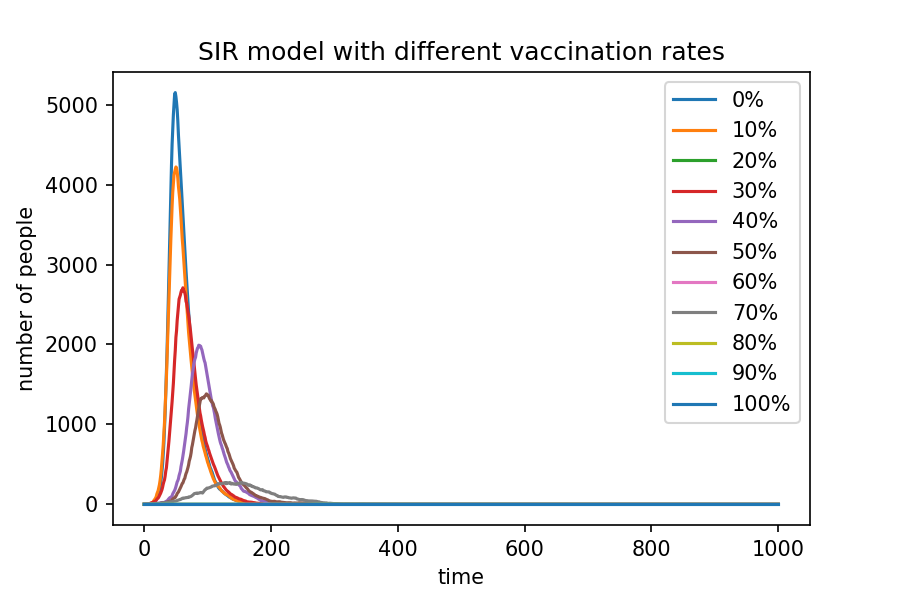
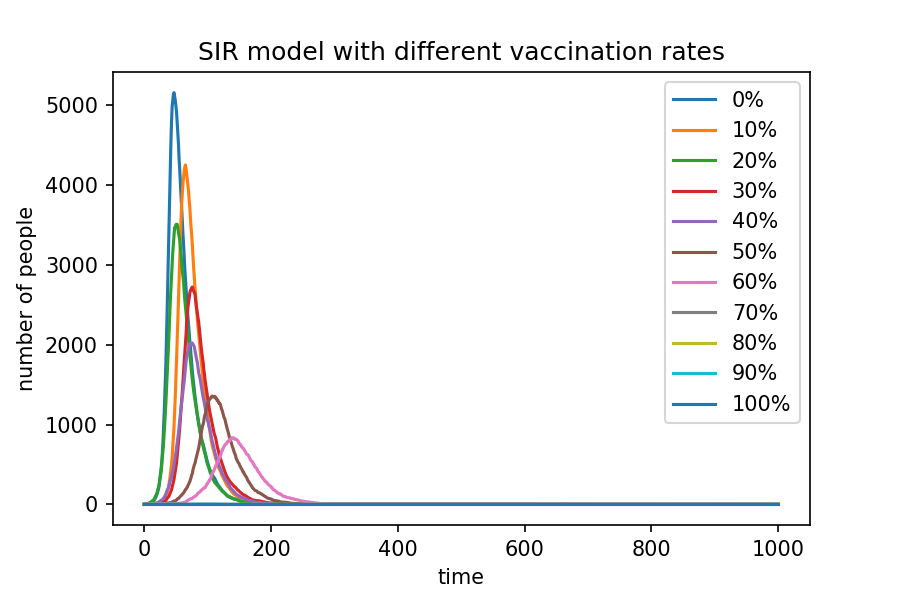
small adjustment to practical 13

Changed region(s): [[0.1556, 0.15, 0.3733, 0.84], [0.0311, 0.54, 0.1244, 0.6], [0.0622, 0.69, 0.1244, 0.72]]

diff --git a/Practical13/SIR_vaccination.py b/Practical13/SIR_vaccination.py
@@ -12,11 +12,12 @@ plt.xlabel('time')
 plt.ylabel('number of people')
 plt.title('SIR model with different vaccination rates')
 N=10000  #population size
+#for every percentage of vaccinated people
 for a in range(0,11):  
    V=int(N*a/10)   #vaccinated people
    S=9999-V
    I=1
-   R=0
+   R=V
    #avoid S to be negative when a reaches 10
    if S<0:
        S=0
@@ -28,7 +29,7 @@ for a in range(0,11):
    i=[I]
    r=[R]
    time=1000
-   
+   #loop 1000 times
    for b in range(0,time):
        #calculate current beta
        curr_beta=beta*I/N
